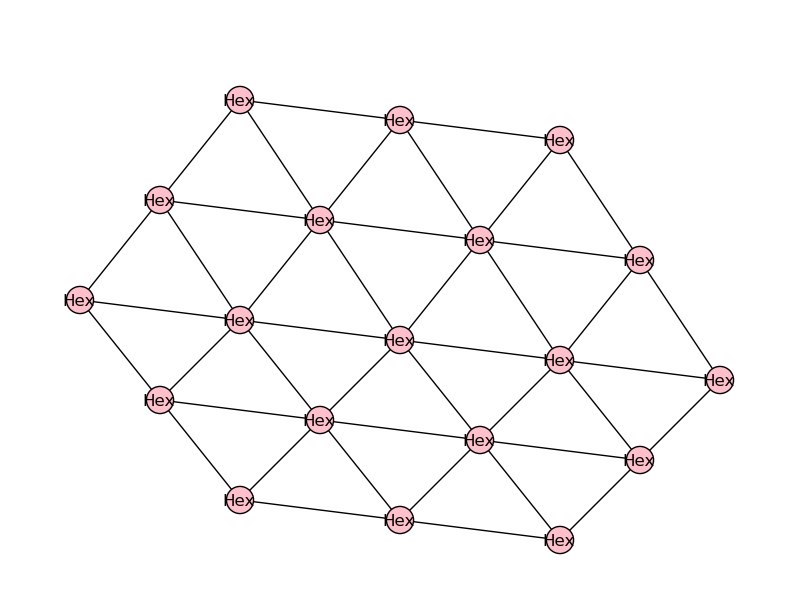
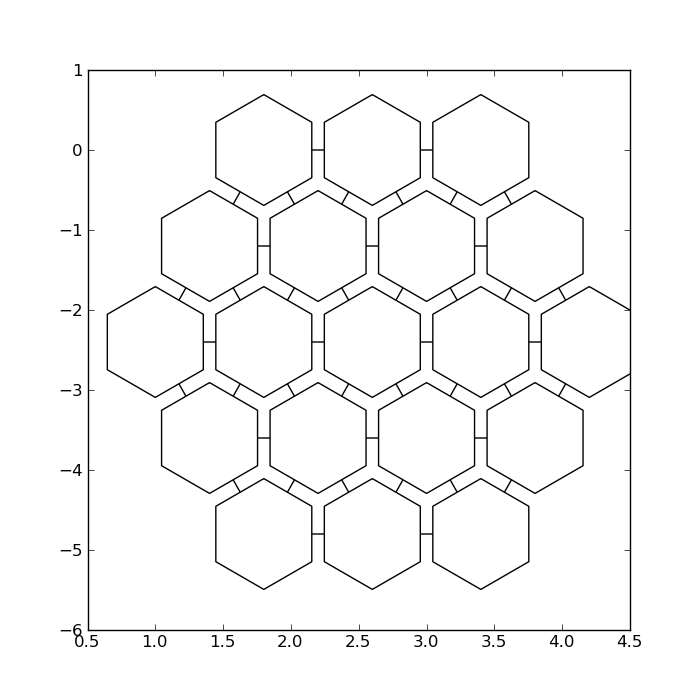
graph cleaned up - colors/names proper; battles do not show up on a board

diff --git a/model/board.py b/model/board.py
@@ -82,17 +82,21 @@ class Board(object):
         return [x for x in self.players if x.is_human()][0]
         
         
-    def make_move(self, player):
-        moves = player.make_move()
+    def player_turn(self, player):
+        moves = player.my_turn()
         
         for move in moves:
             self._do_move(player, move)
 
             
     def _do_move(self, player, move):
-        #TODO: fake impl
-        available_hex = self.any_empty_hex()
-        available_hex.put(move.pawn)
+        if move.pawn.is_base() or move.pawn.is_soldier() or move.pawn.is_module():
+            available_hex = self.any_empty_hex()
+            available_hex.put(move.pawn)
+        
+        elif move.pawn.is_immediate():
+            pass
+            
         self.moves.append(move)
         player.move_made(move)
         
@@ -108,38 +112,44 @@ class Board(object):
         
     def print_graph(self):
         import matplotlib.pyplot as plt
-        nx.draw(
-            self.graph, 
+        a=0.2
+        b=0.4
+        c=0.6
+        d=0.8
+        a = b = c = d = 0
+        x = 0.4
+        y = 1.2
+        
+        plt.figure(figsize=(7,7))
+      
+        nx.draw_networkx(
+            self.graph,
+            node_shape='h',
             pos={
-                self.hex('A1'): (3, -0),
-                self.hex('A2'): (5, -0.2),
-                self.hex('A3'): (7, -0.4),
-                self.hex('B1'): (2, -1),
-                self.hex('B2'): (4, -1.2),
-                self.hex('B3'): (6, -1.4),
-                self.hex('B4'): (8, -1.6),
-                self.hex('C1'): (1, -2),
-                self.hex('C2'): (3, -2.2),
-                self.hex('C3'): (5, -2.4),
-                self.hex('C4'): (7, -2.6),
-                self.hex('C5'): (9, -2.8),
-                self.hex('D1'): (2, -3),
-                self.hex('D2'): (4, -3.2),
-                self.hex('D3'): (6, -3.4),
-                self.hex('D4'): (8, -3.6),
-                self.hex('E1'): (3, -4),
-                self.hex('E2'): (5, -4.2),
-                self.hex('E3'): (7, -4.4),
+                self.hex('A1'): (1+2*x, -0),
+                self.hex('A2'): (1+4*x, -0-a),
+                self.hex('A3'): (1+6*x, -0-b),
+                self.hex('B1'): (1+1*x, -1*y),
+                self.hex('B2'): (1+3*x, -1*y-a),
+                self.hex('B3'): (1+5*x, -1*y-b),
+                self.hex('B4'): (1+7*x, -1*y-c),
+                self.hex('C1'): (1+0*x, -2*y),
+                self.hex('C2'): (1+2*x, -2*y-a),
+                self.hex('C3'): (1+4*x, -2*y-b),
+                self.hex('C4'): (1+6*x, -2*y-c),
+                self.hex('C5'): (1+8*x, -2*y-d),
+                self.hex('D1'): (1+1*x, -3*y),
+                self.hex('D2'): (1+3*x, -3*y-a),
+                self.hex('D3'): (1+5*x, -3*y-b),
+                self.hex('D4'): (1+7*x, -3*y-c),
+                self.hex('E1'): (1+2*x, -4*y),
+                self.hex('E2'): (1+4*x, -4*y-a),
+                self.hex('E3'): (1+6*x, -4*y-b),
             }, 
             with_labels=True,
-            node_color=[hex.color() for hex in sorted(self.hexes.values(), key=lambda hex: hex.name)])
-        #node_size=40,
-        #     node_color=c,
-        #     vmin=0.0,
-        #     vmax=1.0,
-        #     with_labels=False
-        
-        
+            node_color=[hex.color() for hex in self.graph],
+            node_size=5000)
+
         filename = 'screenshots/board-%s.png' % str(len(self.moves)).rjust(3, '0')
         plt.savefig(filename)
 

diff --git a/model/player.py b/model/player.py
@@ -24,29 +24,32 @@ class Player(object):
         
         
     def pick_pawns(self):
+        log.debug('%s: pick_pawns', self.name)
         picked = []
         if 0 == len(self.pawns_deck):
             pass
             
         elif (Army.MAX_PAWNS - 0) == len(self.pawns_deck):
-            picked.append(self.pick_pawn(self.pick_base()))
+            picked.append(self.take_pawn_from_deck(self.take_base_from_deck()))
         
         elif (Army.MAX_PAWNS - 1) == len(self.pawns_deck):
-            picked.append(self.pick_pawn(random.choice(self.pawns_deck)))
+            picked.append(self.take_pawn_from_deck(random.choice(self.pawns_deck)))
             
         elif (Army.MAX_PAWNS - 2) == len(self.pawns_deck):
-            picked.append(self.pick_pawn(random.choice(self.pawns_deck)))
-            picked.append(self.pick_pawn(random.choice(self.pawns_deck)))
+            picked.append(self.take_pawn_from_deck(random.choice(self.pawns_deck)))
+            picked.append(self.take_pawn_from_deck(random.choice(self.pawns_deck)))
             
         else:
-            picked.append(self.pick_pawn(random.choice(self.pawns_deck)))
-            picked.append(self.pick_pawn(random.choice(self.pawns_deck)))
-            picked.append(self.pick_pawn(random.choice(self.pawns_deck)))
+            picked.append(self.take_pawn_from_deck(random.choice(self.pawns_deck)))
+            picked.append(self.take_pawn_from_deck(random.choice(self.pawns_deck)))
+            picked.append(self.take_pawn_from_deck(random.choice(self.pawns_deck)))
             
-        return [pawn for pawn in picked if pawn is not None]
+        picked = [pawn for pawn in picked if pawn is not None]
+        log.debug(picked)
+        return picked
             
             
-    def pick_pawn(self, pawn):
+    def take_pawn_from_deck(self, pawn):
         if len(self.pawns_hand) >= 3:
             raise Exception('CantHaveMoreThan3OInHand')
         
@@ -55,13 +58,21 @@ class Player(object):
         return pawn
         
         
-    def pick_base(self):
+    def take_base_from_deck(self):
         result = filter(lambda pawn: pawn.is_base(), self.pawns_deck)
         return result and result[0] or None
         
         
-    def make_move(self):
-        pass
+    def my_turn(self):
+        pawns = self.pick_pawns()
+        if len(pawns) > 2:
+            to_throw_away = random.choice(pawns)
+            pawns.remove(to_throw_away)
+            self.pawns_hand.remove(to_throw_away)
+            
+        for pawn in pawns:
+            yield Move(pawn)
+        
 
     def move_made(self, move):
         self.pawns_hand.remove(move.pawn)
@@ -93,15 +104,4 @@ class ComputerPlayer(Player):
     def is_computer(self):
         return True
         
-    def make_move(self):
-        pawns = self.pick_pawns()
-        if len(pawns) > 2:
-            pawns.remove(random.choice(pawns))
-            
-        for pawn in pawns:
-            yield Move(pawn)
-        
-        
-
-
     

diff --git a/tests/test_board.py b/tests/test_board.py
@@ -59,23 +59,11 @@ class Test(BaseTest):
         
     def test_05_moves(self):
         board = Board()
-        board.print_graph()
-
-        board.make_move(board.computer())
+        board.player_turn(board.computer())
         
         self.assertEqual(1, len(board.moves))
         self.assertEqual(1, len(board.pawns()))
         self.assertEqual('green', board.pawns()[0].color())
         
-        board.print_graph()
-
-        board.make_move(board.computer())
-        board.print_graph()
-
-        board.make_move(board.computer())
-        board.print_graph()
-
-        board.make_move(board.computer())
-        board.print_graph()
         
         

diff --git a/model/hex.py b/model/hex.py
@@ -17,7 +17,7 @@ class Hex(object):
         
     def color(self):
         if self.is_empty():
-            return 'pink'
+            return 'white'
         else:
             return self.pawns[0].color()
         
@@ -26,12 +26,12 @@ class Hex(object):
         
     def __repr__(self):
         if self.pawns:
-            return '%(army)s <%(pawn)s>' % {
+            return '%(pawn)s' % {
                 'army': self.pawns[0].army.name,
                 'pawn': self.pawns[0].name
             }
         else:
-            return 'Hex'
+            return ''
         #return model_repr(self, attrs=['name'])
         
         

diff --git a/model/pawn.py b/model/pawn.py
@@ -11,6 +11,15 @@ class Pawn(object):
     def is_base(self):
         return 'base' == self.name
         
+    def is_soldier(self):
+        return self.name in ['soldier']
+        
+    def is_module(self):
+        return self.name in ['module']
+        
+    def is_immediate(self):
+        return self.name in ['battle', 'move', 'sniper']
+        
     def color(self):
         return self.army.color
     

diff --git a/tests/test_sample_game.py b/tests/test_sample_game.py
@@ -1,0 +1,16 @@
+# -*- coding: utf-8 -*-
+from tests.base import * 
+
+class Test(BaseTest):
+    def test_00_sample_play(self):
+        board = Board()
+        board.print_graph()
+        
+        for x in range(5):
+            board.player_turn(board.computer())
+            board.print_graph()
+        
+            board.player_turn(board.human())
+            board.print_graph()
+        
+    
